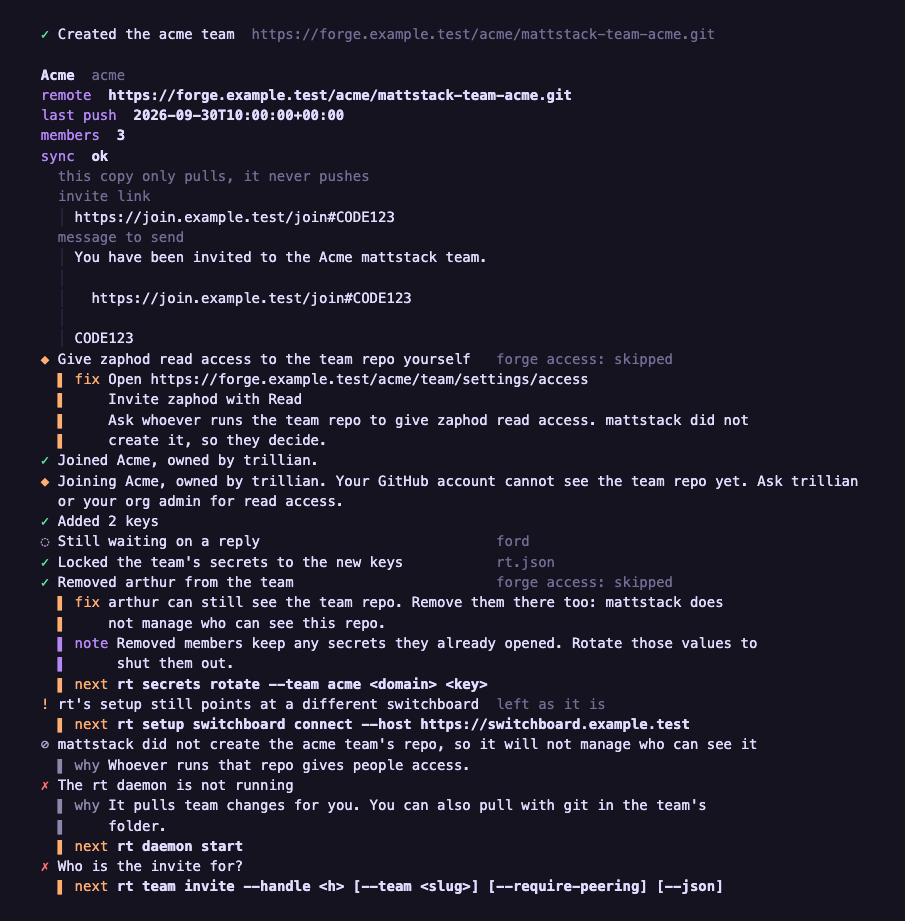
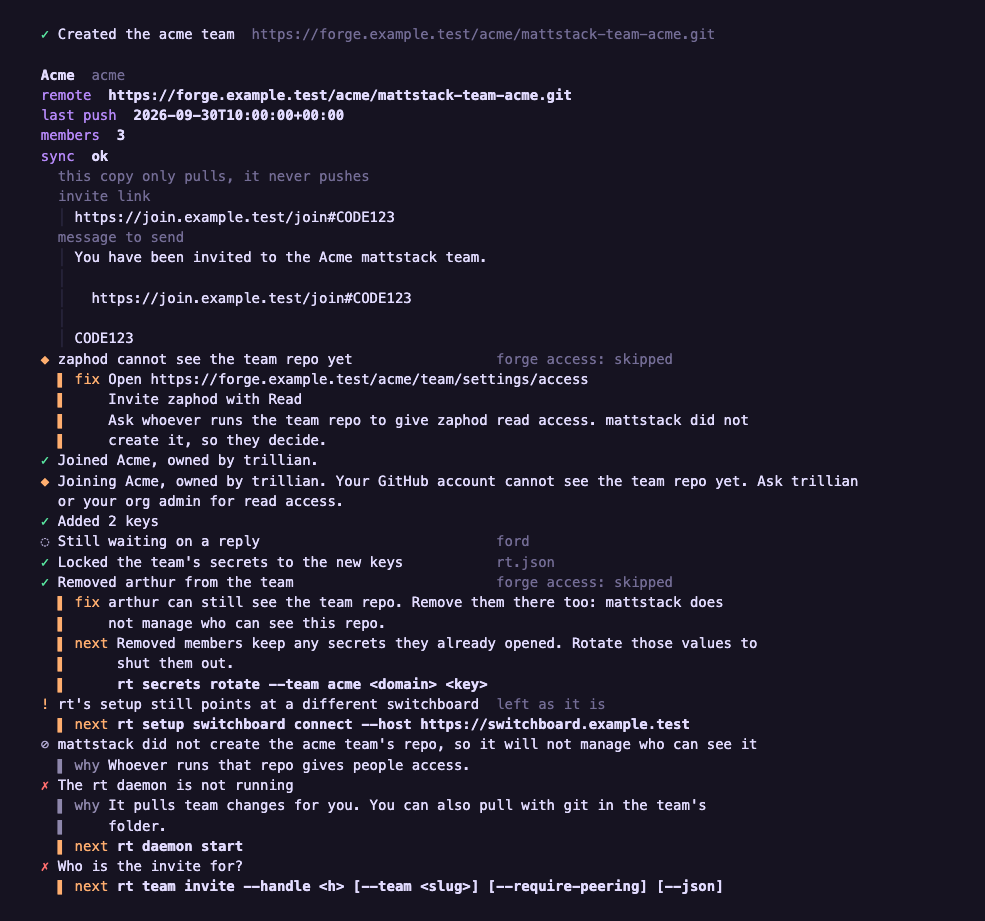
rt team: neutral invite access title, unknown pull outcome in the hint, members remove in two callouts

Changed region(s): [[0.0309, 0.3648, 0.9591, 0.9729], [0.0309, 0.0304, 0.7735, 0.3344], [0.5569, 0.4256, 0.7735, 0.4864]]

diff --git a/commands/__tests__/team-blocks.test.ts b/commands/__tests__/team-blocks.test.ts
@@ -23,8 +23,17 @@ test("an invite is two copy blocks: the link, then the message to send, neither 
 
 test("an invite rt could not grant access for says who has to, with every manual step", () => {
   const text = renderPlain(inviteBlocks("zaphod", invite({ forgeAccess: "skipped", manualSteps: ["Add zaphod at https://forge.example.test/acme/team/members", "Ask whoever runs the team repo to give zaphod read access."] })));
-  expect(text).toContain("[needs you] Give zaphod read access to the team repo yourself  forge access: skipped\n");
+  expect(text).toContain("[needs you] zaphod cannot see the team repo yet  forge access: skipped\n");
   expect(text).toContain("  fix: Add zaphod at https://forge.example.test/acme/team/members\n       Ask whoever runs the team repo to give zaphod read access.\n");
+});
+
+test("an invite GitHub is still waiting on the invitee to accept reads as not yet visible, with the accept step", () => {
+  const text = renderPlain(
+    inviteBlocks("zaphod", invite({ forgeAccess: "manual", manualSteps: ["zaphod has to accept GitHub's invite to the repo, on github.com/acme/team/invitations or by email"] })),
+  );
+  expect(text).toContain("[needs you] zaphod cannot see the team repo yet  forge access: manual\n");
+  expect(text).toContain("  fix: zaphod has to accept GitHub's invite to the repo, on github.com/acme/team/invitations or by email\n");
+  expect(text).not.toContain("yourself");
 });
 
 const join = (extra: Partial<JoinResult> = {}): JoinResult => ({
@@ -62,7 +71,7 @@ test("members sync says what was added, who is still pending and what was locked
   expect(renderPlain(membersSyncBlocks({ added: [], addedHandles: [], pending: [], reencrypted: [] }))).toBe("[skipped] No new keys to add\n");
 });
 
-test("members remove names the member, what is left to do by hand, the note about old secrets, and the command that rotates them", () => {
+test("members remove names the member, what is left to do by hand, and a next step that says why to rotate and how", () => {
   const text = renderPlain(
     membersRemoveBlocks("alice", "acme", {
       forgeAccess: "skipped",
@@ -75,10 +84,10 @@ test("members remove names the member, what is left to do by hand, the note abou
   expect(text).toBe(
     "[ok] Removed alice from the team  forge access: skipped\n" +
       "  fix: alice can still see the team repo. Remove them there too: mattstack does not manage who can see this repo.\n" +
-      "  note: Removed members keep any secrets they already opened. Rotate those values to shut them out.\n" +
-      "  next: rt secrets rotate --team acme <domain> <key>\n",
+      "  next: Removed members keep any secrets they already opened. Rotate those values to shut them out.\n" +
+      "        rt secrets rotate --team acme <domain> <key>\n",
   );
   expect(renderPlain(membersRemoveBlocks("alice", "acme", { forgeAccess: "revoked", manualSteps: [], reencrypted: [], rosterRemoved: false, residueNote: "n" }))).toBe(
-    "[skipped] alice was not on the team list  forge access: revoked\n  note: n\n  next: rt secrets rotate --team acme <domain> <key>\n",
+    "[skipped] alice was not on the team list  forge access: revoked\n  next: n\n        rt secrets rotate --team acme <domain> <key>\n",
   );
 });

diff --git a/commands/team.ts b/commands/team.ts
@@ -234,8 +234,13 @@ export async function teamPull(args: string[], _ctx: CommandContext = {}, deps: 
       return;
     }
     const outcome = res.data.outcome;
-    const copy = PULL_COPY[outcome] ?? { status: "warn" as const, title: (s: string) => `The ${s} team pull ended as ${outcome}` };
-    out.print(out.line(copy.status, copy.title(slug), res.data.detail ?? undefined));
+    const copy = PULL_COPY[outcome];
+    if (copy) {
+      out.print(out.line(copy.status, copy.title(slug), res.data.detail ?? undefined));
+    } else {
+      const hint = res.data.detail ? `outcome: ${outcome}, ${res.data.detail}` : `outcome: ${outcome}`;
+      out.print(out.line("warn", `The ${slug} team pull ended in a way rt does not recognise`, hint));
+    }
   } catch (err) {
     if (err instanceof UserActionableError) exitTeamError(err, json, "team pull", deps);
     throw err;
@@ -270,7 +275,7 @@ export async function teamPublish(args: string[], _ctx: CommandContext = {}, dep
 export function inviteBlocks(handle: string, result: InviteResult): Block[] {
   const blocks: Block[] = [out.copy(result.link, "invite link"), out.copy(result.pasteBlock, "message to send")];
   if (result.forgeAccess !== "granted") {
-    blocks.push(out.line("needs-you", `Give ${handle} read access to the team repo yourself`, `forge access: ${result.forgeAccess}`));
+    blocks.push(out.line("needs-you", `${handle} cannot see the team repo yet`, `forge access: ${result.forgeAccess}`));
     if (result.manualSteps.length > 0) blocks.push(out.callout("fix", ...result.manualSteps));
   }
   return blocks;
@@ -302,8 +307,7 @@ export function membersRemoveBlocks(handle: string, slug: string, result: Member
       ? out.line("done", `Removed ${handle} from the team`, `forge access: ${result.forgeAccess}`)
       : out.line("skipped", `${handle} was not on the team list`, `forge access: ${result.forgeAccess}`),
     ...(result.manualSteps.length > 0 ? [out.callout("fix", ...result.manualSteps)] : []),
-    out.callout("note", result.residueNote),
-    out.callout("next", out.cmd(`rt secrets rotate --team ${slug} <domain> <key>`)),
+    out.callout("next", result.residueNote, out.cmd(`rt secrets rotate --team ${slug} <domain> <key>`)),
   ];
 }
 

diff --git a/commands/__tests__/team.test.ts b/commands/__tests__/team.test.ts
@@ -462,7 +462,7 @@ describe("teamInvite", () => {
       await teamInvite(["--handle", "zaphod"], {}, deps);
       const text = io.stdout();
       expect(text).toContain("mattstack://join/");
-      expect(text).toContain("[needs you] Give zaphod read access to the team repo yourself  forge access: skipped\n");
+      expect(text).toContain("[needs you] zaphod cannot see the team repo yet  forge access: skipped\n");
       expect(text).toContain("Ask whoever runs the team repo");
     } finally {
       io.restore();
@@ -619,6 +619,8 @@ describe("teamPull", () => {
       ["rebased", "2 commits replayed", "[ok] Pulled the acme team  2 commits replayed\n"],
       ["conflict", "settings.team.jsonc", "[needs you] The acme team has changes that clash with yours  settings.team.jsonc\n"],
       ["skipped", "pull not enabled for this repo", "[skipped] Skipped pulling the acme team  pull not enabled for this repo\n"],
+      ["diverged-oddly", null, "[warning] The acme team pull ended in a way rt does not recognise  outcome: diverged-oddly\n"],
+      ["diverged-oddly", "3 files", "[warning] The acme team pull ended in a way rt does not recognise  outcome: diverged-oddly, 3 files\n"],
     ];
     const io = captureOut();
     ui.__test__.setHuman(() => false);
